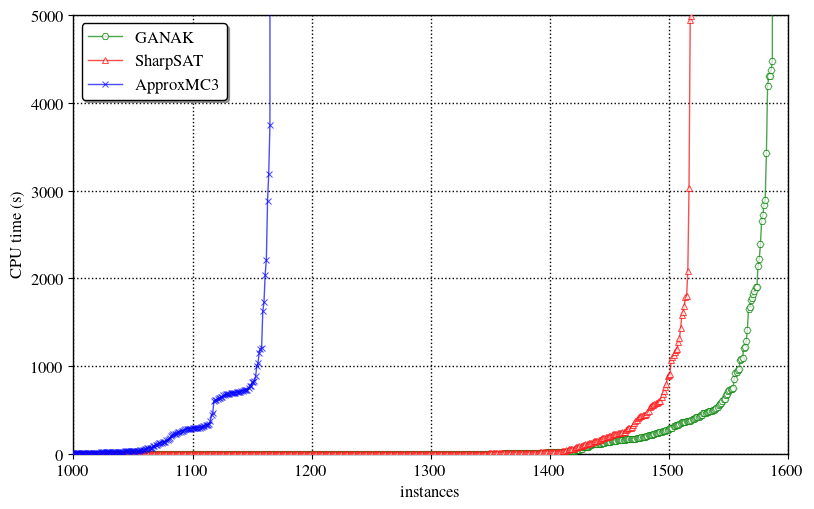
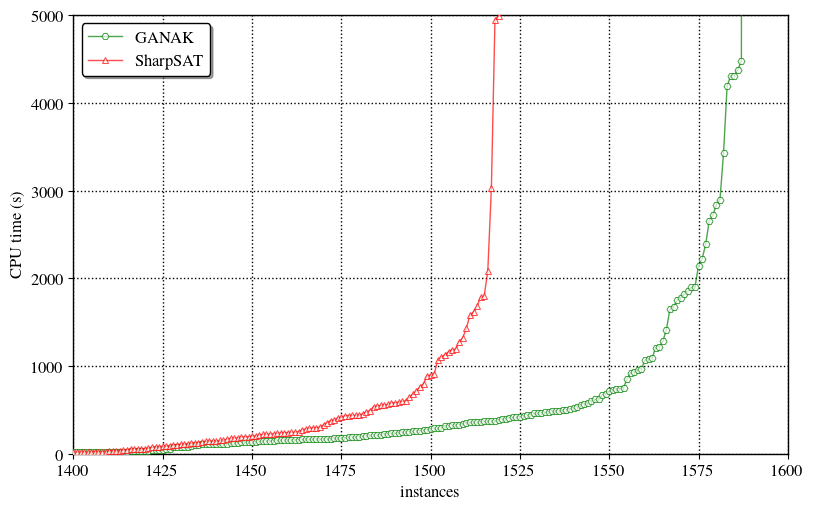
rebuilding site Mon 05 Aug 2019 06:35:54 PM IST

diff --git a/post/ganak/index.html b/post/ganak/index.html
@@ -17,7 +17,7 @@
       
     
   
-  <meta name="description" content="This blogpost talks about our tool GANAK that inherits current advancements in SAT solving and model counting, improves upon them and contributes new ideas, thereby outperforming state-of-the-art exact and approximate model counters. The source code of GANAK is available here and the paper is available here. The main result is that we can solve a lot more problems than before: Let&rsquo;s first define Model Counting. Model Counting
+  <meta name="description" content="This blogpost talks about our tool GANAK that inherits current advancements in SAT solving and model counting, improves upon them and contributes new ideas, thereby outperforming state-of-the-art model counters. The source code of GANAK is available here and the paper is available here. The main result is that we can solve a lot more problems than before: Let&rsquo;s first define Model Counting. Model Counting
 Given a Boolean formula $F$, over a set of variable $X$, model counting (aka #SAT) seeks to compute the number of solutions of $F$.">
 
   
@@ -77,7 +77,7 @@ Given a Boolean formula $F$, over a set of variable $X$, model counting (aka #SA
   <meta property="og:site_name" content="MeelGroup">
   <meta property="og:url" content="/post/ganak/">
   <meta property="og:title" content="GANAK: A Scalable Probabilistic Exact Model Counter | MeelGroup">
-  <meta property="og:description" content="This blogpost talks about our tool GANAK that inherits current advancements in SAT solving and model counting, improves upon them and contributes new ideas, thereby outperforming state-of-the-art exact and approximate model counters. The source code of GANAK is available here and the paper is available here. The main result is that we can solve a lot more problems than before: Let&rsquo;s first define Model Counting. Model Counting
+  <meta property="og:description" content="This blogpost talks about our tool GANAK that inherits current advancements in SAT solving and model counting, improves upon them and contributes new ideas, thereby outperforming state-of-the-art model counters. The source code of GANAK is available here and the paper is available here. The main result is that we can solve a lot more problems than before: Let&rsquo;s first define Model Counting. Model Counting
 Given a Boolean formula $F$, over a set of variable $X$, model counting (aka #SAT) seeks to compute the number of solutions of $F$.">
   <meta property="og:locale" content="en-us">
   
@@ -358,7 +358,7 @@ Given a Boolean formula $F$, over a set of variable $X$, model counting (aka #SA
 
 
     <div class="article-style" itemprop="articleBody">
-      <p>This blogpost talks about our tool <a href="https://github.com/meelgroup/ganak" target="_blank">GANAK</a> that inherits current advancements in SAT solving and model counting, improves upon them and contributes new ideas, thereby outperforming state-of-the-art exact and approximate model counters. The source code of GANAK is available <a href="https://github.com/meelgroup/ganak" target="_blank">here</a> and the paper is available <a href="https://www.comp.nus.edu.sg/~meel/Papers/ijcai19srsm.pdf" target="_blank">here</a>. The main result is that we can solve a lot more problems than before: <img src="cactus.png" alt="alt text" /></p>
+      <p>This blogpost talks about our tool <a href="https://github.com/meelgroup/ganak" target="_blank">GANAK</a> that inherits current advancements in SAT solving and model counting, improves upon them and contributes new ideas, thereby outperforming state-of-the-art model counters. The source code of GANAK is available <a href="https://github.com/meelgroup/ganak" target="_blank">here</a> and the paper is available <a href="https://www.comp.nus.edu.sg/~meel/Papers/ijcai19srsm.pdf" target="_blank">here</a>. The main result is that we can solve a lot more problems than before: <img src="cactus.png" alt="alt text" /></p>
 
 <p>Let&rsquo;s first define Model Counting.
 <h3>Model Counting</h3></p>
@@ -370,9 +370,7 @@ Given a Boolean formula $F$, over a set of variable $X$, model counting (aka #SA
 <p><h4>Exact Model Counting</h4>
 Given $F$, the problem of exact model counting is to compute the number of solutions of $F$.
 <h4> Probabilistic Exact Model Counting </h4>
-Given $F$ and $\delta \in (0,1]$, probabilistic exact model counting estimates $\texttt{count}$ and guarantees that: $\mathsf{Pr}\big[|Solutions(F)| = \texttt{count}\big]\geq 1-\delta$. A recent study of different relaxations of model counting shows that probabilistic exact model counting is almost as hard as exact model counting
-<h4> Approximate Model Counting </h4>
-Given $F$, a tolerance $\epsilon &gt; 0$ and a confidence  $1 - \delta \in (0,1]$, approximate model counting estimates $\texttt{count}$ and guarantees that:  $\mathsf{Pr}\Big[\frac{|Solutions(F)|}{(1 + \epsilon)} \leq \texttt{count} \leq (1 +\epsilon)|Solutions(F)|\Big] \geq 1 - \delta$.</p>
+Given $F$ and $\delta \in (0,1]$, probabilistic exact model counting estimates $\texttt{count}$ and guarantees that: $\mathsf{Pr}\big[|Solutions(F)| = \texttt{count}\big]\geq 1-\delta$. A recent study of different relaxations of model counting shows that probabilistic exact model counting is almost as hard as exact model counting</p>
 
 <p>Let&rsquo;s see some of the applications of model counting
 <h3> Applications of Model Counting </h3></p>
@@ -403,7 +401,7 @@ Given $F$, a tolerance $\epsilon &gt; 0$ and a confidence  $1 - \delta \in (0,1]
 
 <hr />
 
-<p>We evaluate the runtime performance of GANAK on $2031$ publicly available benchmarks arising from a wide range of applications of model counting. Our experiments demonstrate that GANAK performs best when all the heuristics describe in the previous section (except EDR) are enabled. GANAK outperforms state-of-the-art exact and approximate model counters, both in terms of PAR-2 score and the number of instances solved. Finally, in our experiments, the model count returned by GANAK was equal to the exact model count for all the benchmarks.</p>
+<p>We evaluate the runtime performance of GANAK on $2031$ publicly available benchmarks arising from a wide range of applications of model counting. Our experiments demonstrate that GANAK performs best when all the heuristics describe in the previous section (except EDR) are enabled. GANAK outperforms state-of-the-art exact model counter, both in terms of PAR-2 score and the number of instances solved. Finally, in our experiments, the model count returned by GANAK was equal to the exact model count for all the benchmarks.</p>
 
 <p>We are thankful to the <a href="https://www.nscc.sg/" target="_blank">National Supercomputing Center Singapore</a> for providing us computational resources to run our experiments.</p>
 

diff --git a/post/index.html b/post/index.html
@@ -445,7 +445,7 @@
   </h3>
   <div class="article-style" itemprop="articleBody">
     
-    This blogpost talks about our tool GANAK that inherits current advancements in SAT solving and model counting, improves upon them and contributes new ideas, thereby outperforming state-of-the-art exact and approximate model counters. The source code of GANAK is available here and the paper is available here. The main result is that we can solve a lot more problems than before: Let&rsquo;s first define Model Counting. Model Counting
+    This blogpost talks about our tool GANAK that inherits current advancements in SAT solving and model counting, improves upon them and contributes new ideas, thereby outperforming state-of-the-art model counters. The source code of GANAK is available here and the paper is available here. The main result is that we can solve a lot more problems than before: Let&rsquo;s first define Model Counting. Model Counting
 Given a Boolean formula $F$, over a set of variable $X$, model counting (aka #SAT) seeks to compute the number of solutions of $F$.
     
   </div>

diff --git a/index.html b/index.html
@@ -707,7 +707,7 @@ proposed a counting-based method to assess the quality of explanations rigorousl
 <div class="row">
   <div class="col-xs-12 col-md-4 section-heading">
 
-    <h1>Recent Posts</h1>
+    <h1>Blog Posts</h1>
     
     
 
